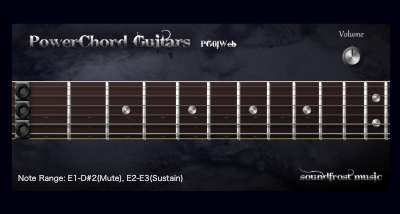
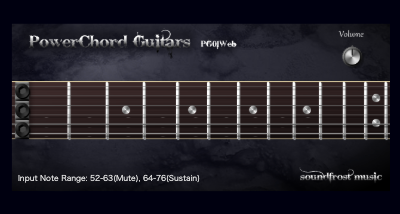
change input note range

Changed region(s): [[0.03, 0.8131, 0.51, 0.8692]]

diff --git a/js/pg01web/scripts/rompler_unit.js b/js/pg01web/scripts/rompler_unit.js
@@ -8,17 +8,17 @@ function setupWaferUnit() {
     },
     noteInput: {
       noteOn(note, time) {
-        if (28 <= note && note < 39) {
-          m.noteOn(note + 12, 50, time);
-        } else if (40 <= note && note < 53) {
-          m.noteOn(note, 100, time);
+        if (52 <= note && note <= 63) {
+          m.noteOn(note - 12, 50, time);
+        } else if (64 <= note && note <= 76) {
+          m.noteOn(note - 24, 100, time);
         }
       },
       noteOff(note, time) {
-        if (28 <= note && note < 39) {
-          m.noteOff(note + 12, time);
-        } else if (40 <= note && note < 53) {
-          m.noteOff(note, time);
+        if (52 <= note && note <= 63) {
+          m.noteOff(note - 12, time);
+        } else if (64 <= note && note <= 76) {
+          m.noteOff(note - 24, time);
         }
       },
     },

diff --git a/js/pg01web/index.html b/js/pg01web/index.html
@@ -325,7 +325,7 @@
             style="width: 150px; height: 30px"
         /></a>
       </div>
-      <div id="instruction">Note Range: E1-D#2(Mute), E2-E3(Sustain)</div>
+      <div id="instruction">Input Note Range: 52-63(Mute), 64-76(Sustain)</div>
     </div>
   </body>
 </html>
